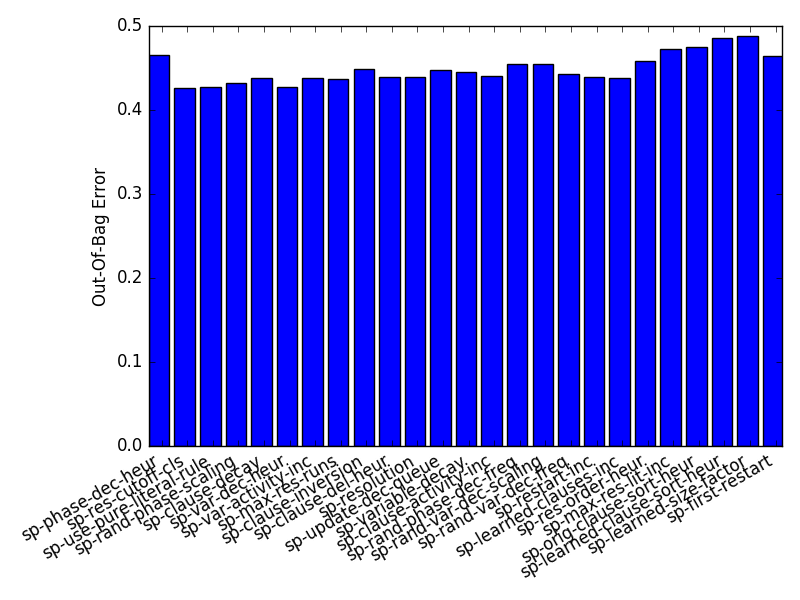
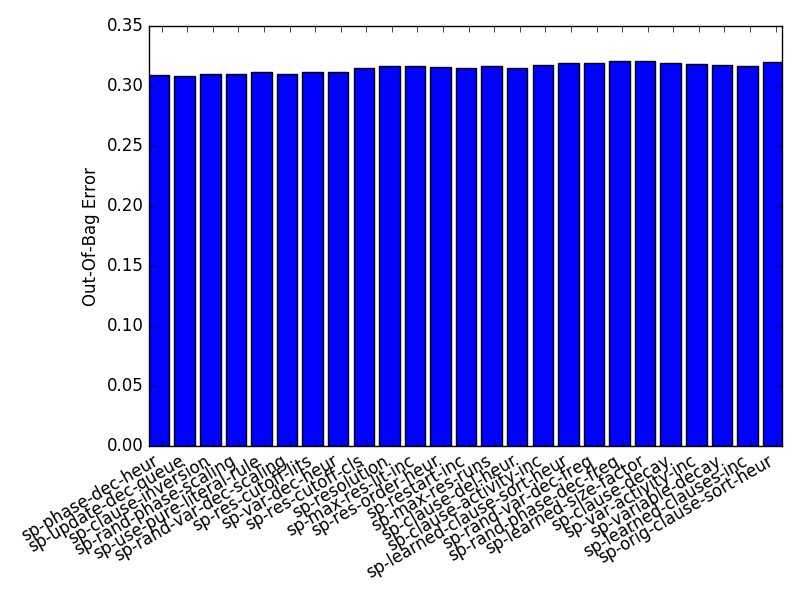
MAINT replaced plots, generated using the EPAR10 predictions on a the same example with longer smac runs MAINT documentation

diff --git a/importance/epm/unlogged_rf_with_instances.py b/importance/epm/unlogged_rf_with_instances.py
@@ -63,7 +63,8 @@ class UnloggedRandomForestWithInstances(RandomForestWithInstances):
         self.threshold = threshold
 
     def _unlogged_predict(self, X):
-        """Predict means and variances for given X.
+        """Predict means and variances for given X by first unlogging the leaf-values and then computing the mean for
+        the trees / the training batch afterwards.
 
         Parameters
         ----------
@@ -84,23 +85,29 @@ class UnloggedRandomForestWithInstances(RandomForestWithInstances):
             raise ValueError('Rows in X should have %d entries but have %d!' %
                              (self.types.shape[0], X.shape[1]))
 
-        mean_prediction_over_batch = []
-        mean_variance_over_batch = []
+        tree_mean_predictions = []
+        tree_mean_variances = []
         for x in X:
-            tmpx = np.array(list(map(lambda x_: np.power(10, x_), self.rf.all_leaf_values(x))))
-            mean_prediction_over_batch.append(list(map(lambda x_: np.mean(x_), tmpx)))
-            mean_variance_over_batch.append(list(map(lambda x_: np.var(x_), tmpx)))
+            tmpx = np.array(list(map(lambda x_: np.power(10, x_), self.rf.all_leaf_values(x))))  # unlog values
+            tree_mean_predictions.append(list(map(lambda x_: np.mean(x_), tmpx)))  # calculate mean and var
+            tree_mean_variances.append(list(map(lambda x_: np.var(x_), tmpx)))  # over individual trees
 
-        tree_mean_prediction_over_batch = np.mean(mean_prediction_over_batch, axis=0)
-        tree_var_prediction_over_batch = np.mean(mean_variance_over_batch, axis=0)
+        forest_mean_prediction_over_batch = np.mean(tree_mean_predictions, axis=0)
+        forest_var_prediction_over_batch = np.mean(tree_mean_variances, axis=0)
 
-        mean = np.mean(tree_mean_prediction_over_batch)
-        var = np.mean(tree_var_prediction_over_batch) + np.var(tree_mean_prediction_over_batch)
+        mean = np.mean(forest_mean_prediction_over_batch)
+        var = np.mean(forest_var_prediction_over_batch) + np.var(forest_mean_prediction_over_batch)
         return mean.reshape((-1, 1)), var.reshape((-1, 1))
 
     def _predict_EPAR(self, X, prediction_threshold=0):
         """
-        TODO
+        Predicting the Expected Penalized Average Runtime according to the cuttoff and par-factor specified in the
+        scenario.
+
+        Parameters
+        ----------
+        X : np.ndarray of shape = [n_samples, n_features (config + instance
+        features)]
         """
 
         mean_var = self._unlogged_predict(X=X)
@@ -162,4 +169,8 @@ class UnloggedRandomForestWithInstances(RandomForestWithInstances):
         return pred, var
 
     def predict(self, X):
+        """
+        Method to override the predict method of RandomForestWithInstances.
+        Thus it can be used in the marginalized over instances method of the RFWI class
+        """
         return self._predict_EPAR(X)

diff --git a/importance/evaluator/ablation.py b/importance/evaluator/ablation.py
@@ -88,6 +88,22 @@ class Ablation(AbstractEvaluator):
         return dict_
 
     def _check_children(self, modded_dict, params, delete=False):
+        """
+        Method that checks if children are set to inactive during the current round due to condidionalities.
+
+        Parameters
+        ----------
+        modded_dict: dictionary
+            Dictionary with parameter_name -> parameter_value
+        params: list
+            list of parameters to check the child activity for
+        delete: boolean
+            allows for deletion of inactive parameters from the ablation_delta_list
+
+        Returns
+        -------
+        modded_dict, where inactive parameters have the value None
+        """
         for param in params:
             children = self.cs.get_children_of(param)
             if children:
@@ -166,7 +182,8 @@ class Ablation(AbstractEvaluator):
             self.predicted_parameter_performances[param_str] = best_performance
             self.predicted_parameter_variances[param_str] = best_variance
 
-            for winning_param in self.delta[best_idx]:
+            for winning_param in self.delta[best_idx]:  # Delete parameters that were set to inactive by the last
+                                                        # best parameter
                 prev_modifiable_config_dict[winning_param] = self.target[winning_param]
             self._check_children(prev_modifiable_config_dict, self.delta[best_idx], delete=True)
             self.delta.pop(best_idx)  # don't forget to remove already tested parameters
